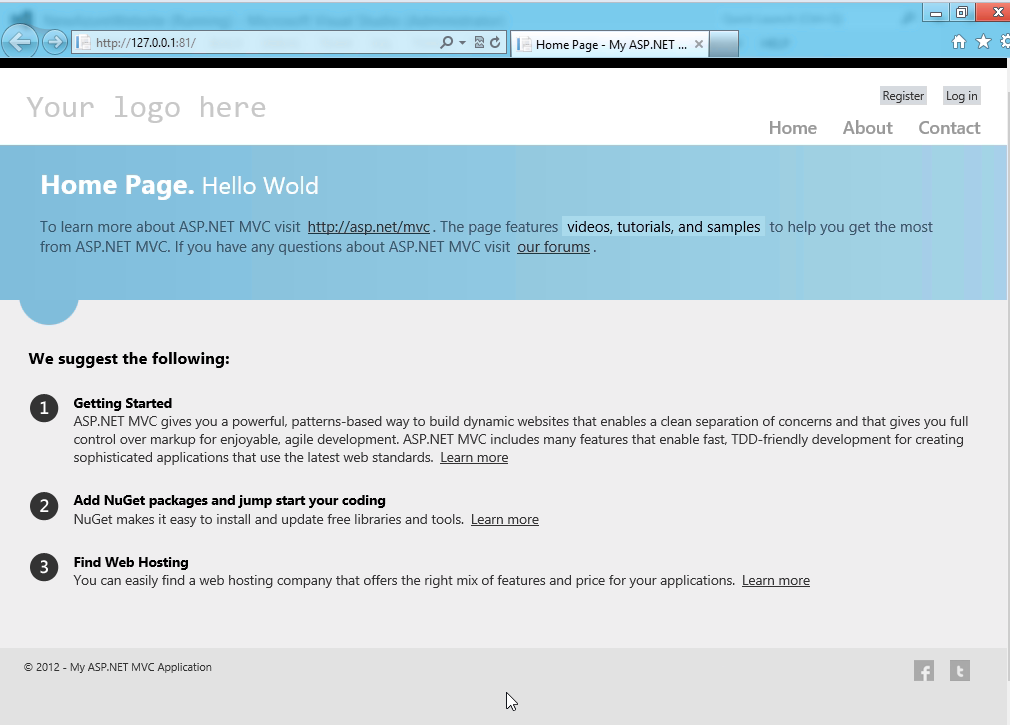
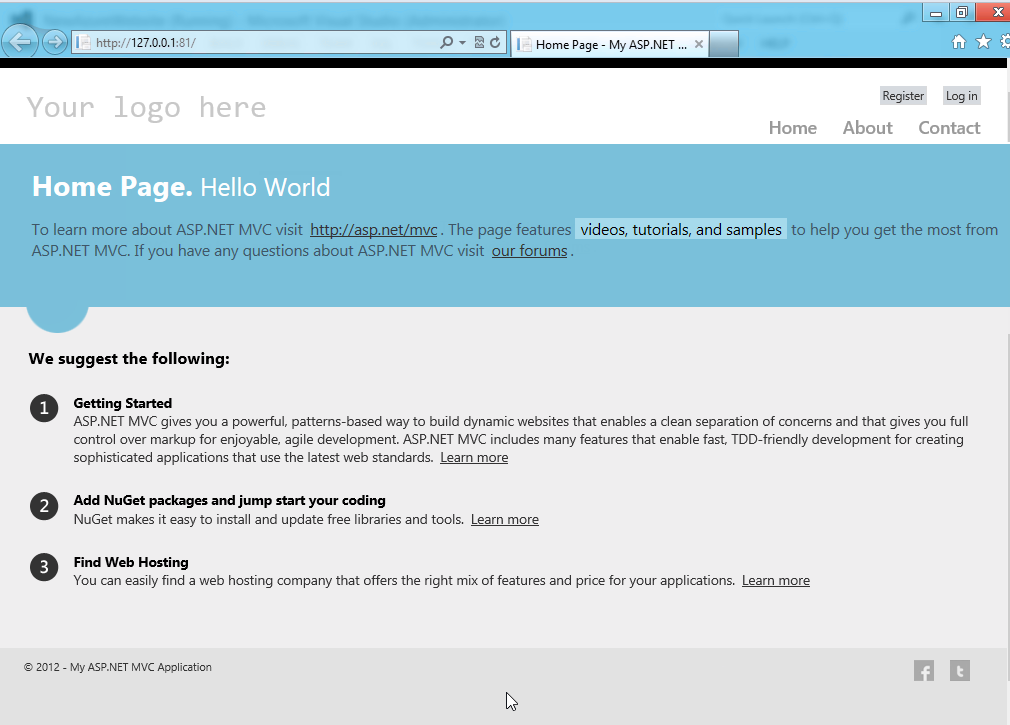
-bug fixing

Changed region(s): [[0.0307, 0.1821, 1.0, 0.4552], [0.0307, 0.2428, 0.3376, 0.2731], [0.0, 0.3945, 0.0307, 0.4248]]

diff --git a/Source/MyWebSite/MyWebSite/Controllers/HomeController.cs b/Source/MyWebSite/MyWebSite/Controllers/HomeController.cs
@@ -10,7 +10,7 @@ namespace MyWebSite.Controllers
     {
         public ActionResult Index()
         {
-            ViewBag.Message = "Modify this template to kick-start your ASP.NET MVC application.";
+            ViewBag.Message = "Hello World";
 
             return View();
         }

diff --git a/Tutorial.md b/Tutorial.md
@@ -16,13 +16,11 @@ In this demo you will see how to deploy an MVC 4 web application to a Windows Az
 
 - Windows Azure subscription - you can sign up for free trial [here][1]
 - [Microsoft Visual Studio 2012 RC][2]
-- [Windows Azure SDK for .NET - June 2012][3]
-- [NuGet Package Manager][4]
+- [Git][3]
 
 [1]: http://bit.ly/WindowsAzureFreeTrial
 [2]: http://www.microsoft.com/visualstudio/11/en-us
-[3]:http://www.microsoft.com/en-us/download/details.aspx?id=29988
-[4]: http://nuget.org/
+[3]: http://go.microsoft.com/fwlink/?LinkID=251797&clcid=0x409
 
 <a name="setup" />
 ### Setup and Configuration ###
@@ -46,7 +44,8 @@ In order to execute this demo you need to set up your environment.
 1. In Windows Azure Management Portal, click **New** in the bottom menu, select **Web Site** and then **Quick Create**.
 
 	> 	**Speaking Point:** 
-Now I will show you how to create a new Web Site using the Windows Azure Management Portal. You will see how fast the site gets created.
+	>
+	Now I will show you how to create a new Web Site using the Windows Azure Management Portal. You will see how fast the site gets created.
 
 1. Enter the url for the new site and click **Create Web Site**.
 
@@ -56,7 +55,9 @@ Now I will show you how to create a new Web Site using the Windows Azure Managem
 
 1. Once the site is provisioned, click on its url to navigate to the default page.
 
-	> **Speaking point:** As you can see it takes just a few seconds to create the new Web Site. I will now navigate to the site's default page to show that it is totally operative.
+	> **Speaking point:** 
+	>
+	As you can see it takes just a few seconds to create the new Web Site. I will now navigate to the site's default page to show that it is totally operative.
 
 	![The provisoned site](images/the-provisoned-site.png?raw=true "The provisoned site")
 
@@ -68,7 +69,9 @@ Now I will show you how to create a new Web Site using the Windows Azure Managem
 
 1. In Windows Azure Management Portal go to **Web Sites** and click the name of the web site you just created.
 
-	> **Speaking Point:** Now I will get back to Windows Azure and go to the site's Dashboard in order to download the Publish Profile. We will use this to deploy applications to our Web Site.
+	> **Speaking Point:** 
+	>
+	Now I will get back to Windows Azure and go to the site's Dashboard in order to download the Publish Profile. We will use this to deploy applications to our Web Site.
 
 1. Once in the **Dashboard** page, click the **Download publis profile** link and then click "Save" in the dialog that appears
 
@@ -78,7 +81,9 @@ Now I will show you how to create a new Web Site using the Windows Azure Managem
 
 1. In Windows 8 start menu search for **Visual Studio 2012** and execute it elevated by right clicking the Visual Studio Icon and selecting **Run as administrator**.
 
-	> **Speaking Point:** Now I'll go to Visual Studio and create a new MVC 4 internet application and deploy it to our web site. I will use web deploy to deploy the site. You will see how fast it deploys.
+	> **Speaking Point:** 
+	>
+	Now I'll go to Visual Studio and create a new MVC 4 internet application and deploy it to our web site. I will use web deploy to deploy the site. You will see how fast it deploys.
 
 1. In Visual Studio, select **File | New | Project** from the main menu.
 
@@ -98,7 +103,9 @@ Now I will show you how to create a new Web Site using the Windows Azure Managem
 
 1. In the "Publish Web" dialog, click the **Import** button and select the publish profile file you donwloaded from Management Portal. The necessary publish data will be completed. Click **Publish** to start the publishing process.
 
-	> **Speaking Point:** Now we will publish the MVC4 site to our Web Site to see it running in the cloud.
+	> **Speaking Point:** 
+	>
+	Now we will publish the MVC4 site to our Web Site to see it running in the cloud.
 
 	![Publishing the website](images/publishing-the-website.png?raw=true "Publishing the website")
 
@@ -112,7 +119,9 @@ Now I will show you how to create a new Web Site using the Windows Azure Managem
 
 1. Go Back to Windows Azure Management Portal. In the web site's dashboard, click **Set up Git publishing**.
 
-	> **Speaking point:** Now we will enable GitHub publishing and will see how we can publish new updates using git.
+	> **Speaking point:** 
+	>
+	Now we will enable GitHub publishing and will see how we can publish new updates using git.
 
 	![Setting up git publishing](images/setting-up-git-publishing.png?raw=true "Setting up git publishing")
 
@@ -164,9 +173,13 @@ git push azure master
 
 	_Web Site scaling options_
 
-	> **Speaking point:** Here we can manage the scaling options of our web site, such as  the Web Site mode wich could be Shared or Reserved .In Shared mode, all web sites share the servers and are created in the same geographical-region; In Reserved mode implies that all web sites in a given region run on dedicated virtual machines. Reserved mode provides your sites more processing power and performance and allows you to scale your instance count and size. Also we can change the Shared Instance count, denotes the number of processes dedicated to a web site. By changing this setting, you can scale out your web site for increased throughput and availability. Similarly, we can adjust the Instance size and Instance count for reserved mode.
+	> **Speaking point:** 
+	>
+	Here we can manage the scaling options of our web site, such as  the Web Site mode wich could be Shared or Reserved .In Shared mode, all web sites share the servers and are created in the same geographical-region; In Reserved mode implies that all web sites in a given region run on dedicated virtual machines. Reserved mode provides your sites more processing power and performance and allows you to scale your instance count and size. Also we can change the Shared Instance count, denotes the number of processes dedicated to a web site. By changing this setting, you can scale out your web site for increased throughput and availability. Similarly, we can adjust the Instance size and Instance count for reserved mode.
 
-> **Speaking Point:** Now we will see how we can publish our Web Site as a **Cloud Service** in **Windows Azure**
+	> **Speaking Point:** 
+	>
+	Now we will see how we can publish our Web Site as a **Cloud Service** in **Windows Azure**
 
 1. Go back to Visual Studio. In Solution Explorer right click the **NewAzureWebSite** project and select 
 **Add Windows Azure Cloud Service Project**.
